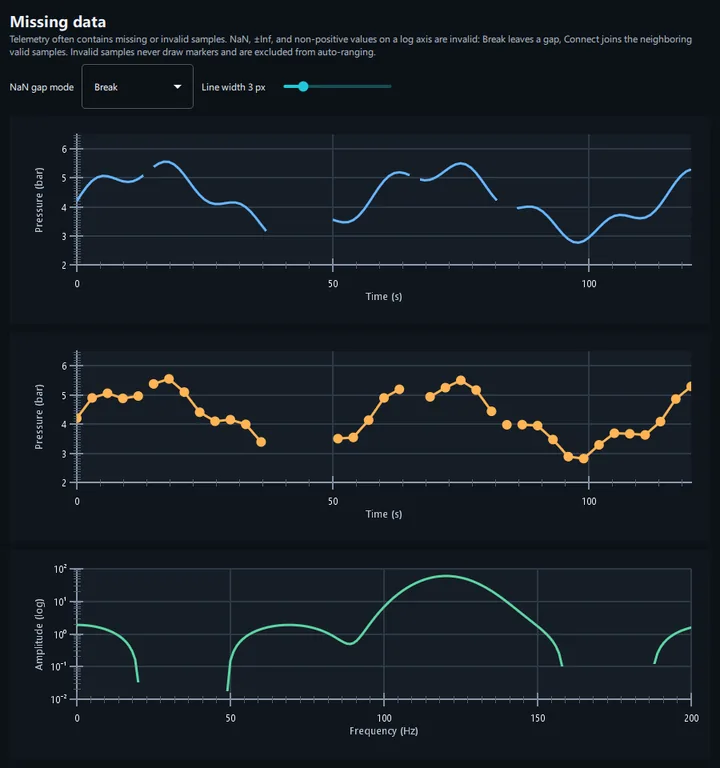
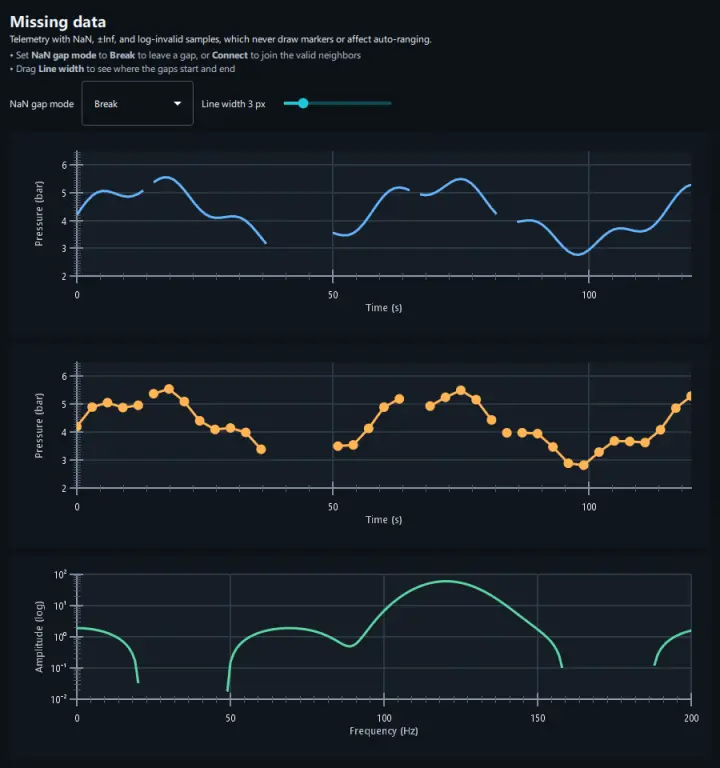
Structure example headers as title, subtitle, and interaction bullets
ExampleHeader takes a one-sentence subtitle and an interactions list
drawn as bullets, with buttons, tabs, and keys in bold. Every example
using it now says what it shows and what you can do with it. Bar Chart
and State Timeline move their controls to a row under the header so the
bullets keep their width.

AGENTS.md documents the convention, and the gallery screenshots show
the new headers.

diff --git a/examples/common/qml/ExampleHeader.qml b/examples/common/qml/ExampleHeader.qml
@@ -11,12 +11,16 @@ import QtQuick.Controls.Material
 import QtQuick.Layouts
 import QAccelPlot as QAccelPlot
 
-// Title and description; child items are placed to the right of the text.
+// Bold title, a one-sentence subtitle saying what the example shows, and up to
+// four one-line bullets saying what you can do with it. Child items are placed
+// to the right of the text.
 RowLayout {
     id: root
 
     property alias title: titleLabel.text
-    property alias description: descriptionLabel.text
+    property alias subtitle: subtitleLabel.text
+    // Array of strings, one per bullet. Bold control and key names with <b>.
+    property var interactions: []
     property QtObject colorPalette: QAccelPlot.Colors.dark
 
     Layout.fillWidth: true
@@ -24,6 +28,7 @@ RowLayout {
 
     ColumnLayout {
         Layout.fillWidth: true
+        Layout.alignment: Qt.AlignTop
         spacing: 1
 
         Label {
@@ -34,11 +39,32 @@ RowLayout {
         }
 
         Label {
-            id: descriptionLabel
+            id: subtitleLabel
             visible: text !== ""
-            color: root.colorPalette.textSecondary
+            color: root.colorPalette.text
             wrapMode: Text.WordWrap
             Layout.fillWidth: true
+        }
+
+        ColumnLayout {
+            visible: root.interactions.length > 0
+            spacing: 1
+            Layout.topMargin: 3
+            Layout.fillWidth: true
+
+            Repeater {
+                model: root.interactions
+
+                Label {
+                    required property string modelData
+
+                    text: "•  " + modelData
+                    textFormat: Text.StyledText
+                    color: root.colorPalette.textSecondary
+                    wrapMode: Text.WordWrap
+                    Layout.fillWidth: true
+                }
+            }
         }
     }
 }

diff --git a/examples/plot_types/heatmap/qml/main.qml b/examples/plot_types/heatmap/qml/main.qml
@@ -40,7 +40,13 @@ Window {
 
         ExampleHeader {
             title: "Heatmap"
-            description: "HeatmapSeries colors a grid of values. Interference: two circular waves on a 400 × 300 grid, keyed by a histogram of the cells in view whose amplitude axis sets the color range. Log-spaced bins: a frequency sweep in rows of equal frequency ratio, with ySpacing: HeatmapSeries.Log on a log axis. Hover a cell to read it, drag or wheel to pan and zoom, and drag or wheel the color bar or the histogram to change the color range."
+            subtitle: "HeatmapSeries colors a grid of values: two-wave interference, and a frequency sweep in log-spaced rows."
+            interactions: [
+                "Hover a cell to read its value",
+                "Choose a <b>Colormap</b>, or check <b>Reversed</b>",
+                "Drag or wheel the color bar or the histogram to change the color range",
+                "Switch to <b>Log-spaced bins</b> for rows of equal frequency ratio on a log axis"
+            ]
 
             Label {
                 text: "Colormap"

diff --git a/examples/data/export/qml/main.qml b/examples/data/export/qml/main.qml
@@ -62,7 +62,13 @@ Window {
 
         ExampleHeader {
             title: "Export"
-            description: "PlotExporter saves a plot as a raster image or copies it to the clipboard. Scale sets the image pixels per logical pixel; Screen matches the display. A transparent background leaves out the plot and axes area colors. Quality applies to lossy formats such as JPEG and WebP."
+            subtitle: "PlotExporter saves a plot as a raster image or copies it to the clipboard."
+            interactions: [
+                "Click <b>Save as…</b> to save the plot as an image, or <b>Copy image</b> to copy it",
+                "Set <b>Scale</b> to the image pixels per logical pixel; <b>Screen</b> matches the display",
+                "Check <b>Transparent background</b> to leave out the plot and axes area colors",
+                "Drag <b>Quality</b> to set the compression of lossy formats such as JPEG and WebP"
+            ]
         }
 
         RowLayout {

diff --git a/examples/interaction/data_inspection/qml/main.qml b/examples/interaction/data_inspection/qml/main.qml
@@ -34,7 +34,13 @@ Window {
 
         ExampleHeader {
             title: "Data inspection"
-            description: "Two noisy signals, one million samples in total. The tooltip shows the minimum … maximum and count of the samples under the cursor, or the nearest sample alone. Shift + drag selects a region; Escape clears it."
+            subtitle: "Two noisy signals, one million samples in total, with a crosshair, a tooltip, and region selection."
+            interactions: [
+                "Hover to read the minimum … maximum and count of the samples under the cursor",
+                "Uncheck <b>Min … max under the cursor</b> to read the nearest sample alone",
+                "Choose how <b>Inspect</b> finds samples: by X, by Y, or the nearest point",
+                "Shift + drag to select a region shaped by <b>Select</b> and read its statistics; <b>Escape</b> clears it"
+            ]
         }
 
         RowLayout {

diff --git a/examples/plot_types/point_cloud/qml/main.qml b/examples/plot_types/point_cloud/qml/main.qml
@@ -39,7 +39,13 @@ Window {
 
         ExampleHeader {
             title: "Point cloud"
-            description: "200,000 points of a Clifford attractor, colored by the distance from the previous point. Click Morph to move them to another attractor, or Draw to show its points one after another. Hover a point to read it, Ctrl + drag to zoom, and drag or wheel the color bar to change its range."
+            subtitle: "200,000 points of a Clifford attractor, colored by the distance from the previous point."
+            interactions: [
+                "Click <b>Morph</b> to move the points to another attractor, or <b>Draw</b> to draw it point by point",
+                "Hover a point to read it",
+                "Ctrl + drag to zoom into a rectangle",
+                "Drag or wheel the color bar to change its range"
+            ]
 
             Button {
                 text: "Morph"

diff --git a/examples/plot_types/parametric_curves/qml/main.qml b/examples/plot_types/parametric_curves/qml/main.qml
@@ -267,7 +267,13 @@ Window {
 
         ExampleHeader {
             title: "Parametric curves"
-            description: "LineCurve connects samples in the order they are given, so x does not have to increase: curves can loop, spiral, and cross themselves. Hover a curve to highlight it. Double-click the phase portrait to start a new trajectory there."
+            subtitle: "LineCurve joins samples in the order they are given, so curves can loop, spiral, and cross themselves."
+            interactions: [
+                "Hover a curve to highlight it",
+                "Use the controls above each plot to reshape its curve",
+                "Double-click the phase portrait to start a new trajectory there; <b>Reset</b> clears them",
+                "Click <b>Replay drawing</b> to draw every curve again"
+            ]
 
             Button {
                 text: "Replay drawing"

diff --git a/examples/plot_types/bar_chart/qml/main.qml b/examples/plot_types/bar_chart/qml/main.qml
@@ -87,7 +87,18 @@ Window {
 
         ExampleHeader {
             title: "Bar chart"
-            description: "Grouped revenue bars and profit bars colored against a target. Switch the year to animate them; hover a profit bar to read it."
+            subtitle: "Grouped revenue bars, and profit bars colored against a target."
+            interactions: [
+                "Click <b>Show 2025</b> to animate the bars to the other year with the chosen transition",
+                "Hover a profit bar to read it",
+                "Drag <b>Profit target</b> to recolor the profit bars against it",
+                "Check <b>Horizontal</b> or <b>Outlines</b>, or drag <b>Group width</b>"
+            ]
+        }
+
+        RowLayout {
+            Layout.fillWidth: true
+            spacing: 8
 
             Button {
                 text: "Show " + window.yearNames[1 - window.year]

diff --git a/examples/styling/gradients/qml/main.qml b/examples/styling/gradients/qml/main.qml
@@ -58,7 +58,12 @@ Window {
 
         ExampleHeader {
             title: "Gradients"
-            description: "Upper plot: a home imports power below 0 kW and exports surplus solar power above it. Compare filling from the chart minimum with filling from the meaningful 0 kW baseline. Lower plot: a gradient stroke on battery temperature during a charge cycle, using the same settings."
+            subtitle: "A gradient fill on a home's power imports and solar exports, and a gradient stroke on battery temperature."
+            interactions: [
+                "Set <b>Baseline</b> to <b>Grid balance (0 kW)</b> to fill imports and exports from zero",
+                "Choose a <b>Preset</b> and <b>Direction</b>, or check <b>Reversed</b>",
+                "Drag <b>Fill opacity</b> and <b>Vertical maximum</b> to shape the fill"
+            ]
         }
 
         RowLayout {

diff --git a/examples/plot_types/state_timeline/qml/main.qml b/examples/plot_types/state_timeline/qml/main.qml
@@ -49,7 +49,17 @@ Window {
 
         ExampleHeader {
             title: "State timeline"
-            description: "Two weeks of machine states in one RectangleSeries, colored by category. Full-height maintenance windows sit underneath. Short alarms keep a minimum width when zoomed out; hover a state to read it."
+            subtitle: "Two weeks of machine states in one RectangleSeries, colored by category, over maintenance windows."
+            interactions: [
+                "Hover a state to read it",
+                "Drag <b>Minimum width</b> to set how narrow short alarms get when zoomed out",
+                "Toggle <b>Outlines</b> or the full-height <b>Maintenance</b> windows"
+            ]
+        }
+
+        RowLayout {
+            Layout.fillWidth: true
+            spacing: 8
 
             Repeater {
                 model: window.stateNames

diff --git a/examples/plot_types/error_bars/qml/main.qml b/examples/plot_types/error_bars/qml/main.qml
@@ -32,7 +32,13 @@ Window {
 
         ExampleHeader {
             title: "Error bars"
-            description: "ErrorBarSeries draws a line from a low to a high bound at each data point, capped at both ends. Draw the values with a PointCloud, LineCurve, or BarSeries."
+            subtitle: "ErrorBarSeries draws a capped line from a low to a high bound at each data point."
+            interactions: [
+                "Hover a point or an error bar on <b>Measurements</b> to read the measurement",
+                "Click <b>Morph</b> or <b>Draw</b> to animate to a new sample",
+                "Drag <b>Cap length</b> and <b>Line width</b>, or uncheck <b>Reference errors</b>",
+                "Check <b>Horizontal</b> on <b>Grouped bars</b> to turn the bars and error bars sideways"
+            ]
         }
 
         ExamplePages {

diff --git a/examples/data/missing_data/qml/main.qml b/examples/data/missing_data/qml/main.qml
@@ -64,7 +64,11 @@ Window {
 
         ExampleHeader {
             title: "Missing data"
-            description: "Telemetry often contains missing or invalid samples. NaN, ±Inf, and non-positive values on a log axis are invalid: Break leaves a gap, Connect joins the neighboring valid samples. Invalid samples never draw markers and are excluded from auto-ranging."
+            subtitle: "Telemetry with NaN, ±Inf, and log-invalid samples, which never draw markers or affect auto-ranging."
+            interactions: [
+                "Set <b>NaN gap mode</b> to <b>Break</b> to leave a gap, or <b>Connect</b> to join the valid neighbors",
+                "Drag <b>Line width</b> to see where the gaps start and end"
+            ]
         }
 
         RowLayout {

diff --git a/examples/plot_types/step_lines/qml/main.qml b/examples/plot_types/step_lines/qml/main.qml
@@ -32,7 +32,12 @@ Window {
 
         ExampleHeader {
             title: "Step lines"
-            description: "LineCurve.stepMode draws a line as steps: each value holds until the line jumps to the next one. The fill, dash pattern, hover, and inspection follow the steps."
+            subtitle: "LineCurve.stepMode draws a line as steps: each value holds until the line jumps to the next one."
+            interactions: [
+                "Toggle <b>Markers</b>, <b>Fill</b>, and <b>Dashed</b> on <b>Step modes</b>; the fill and dashes follow the steps",
+                "Hover the plot on <b>Live set point</b> to read the value each step holds",
+                "Check <b>Pause</b> to stop the live data"
+            ]
         }
 
         ExamplePages {
